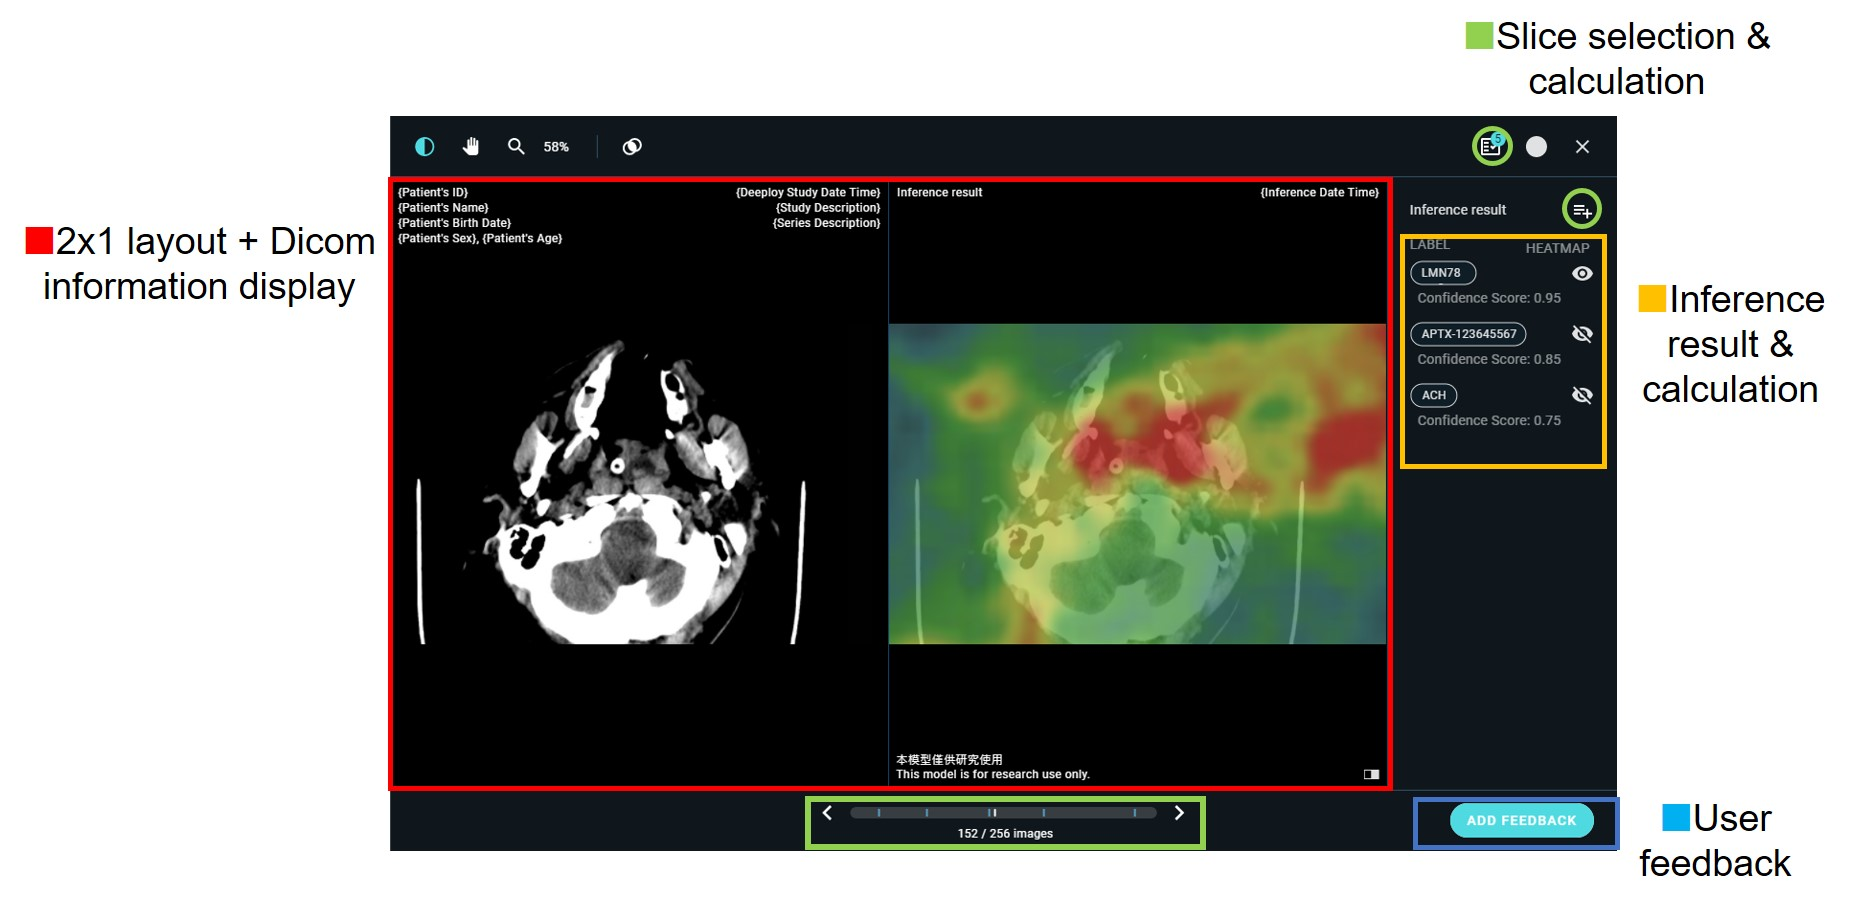
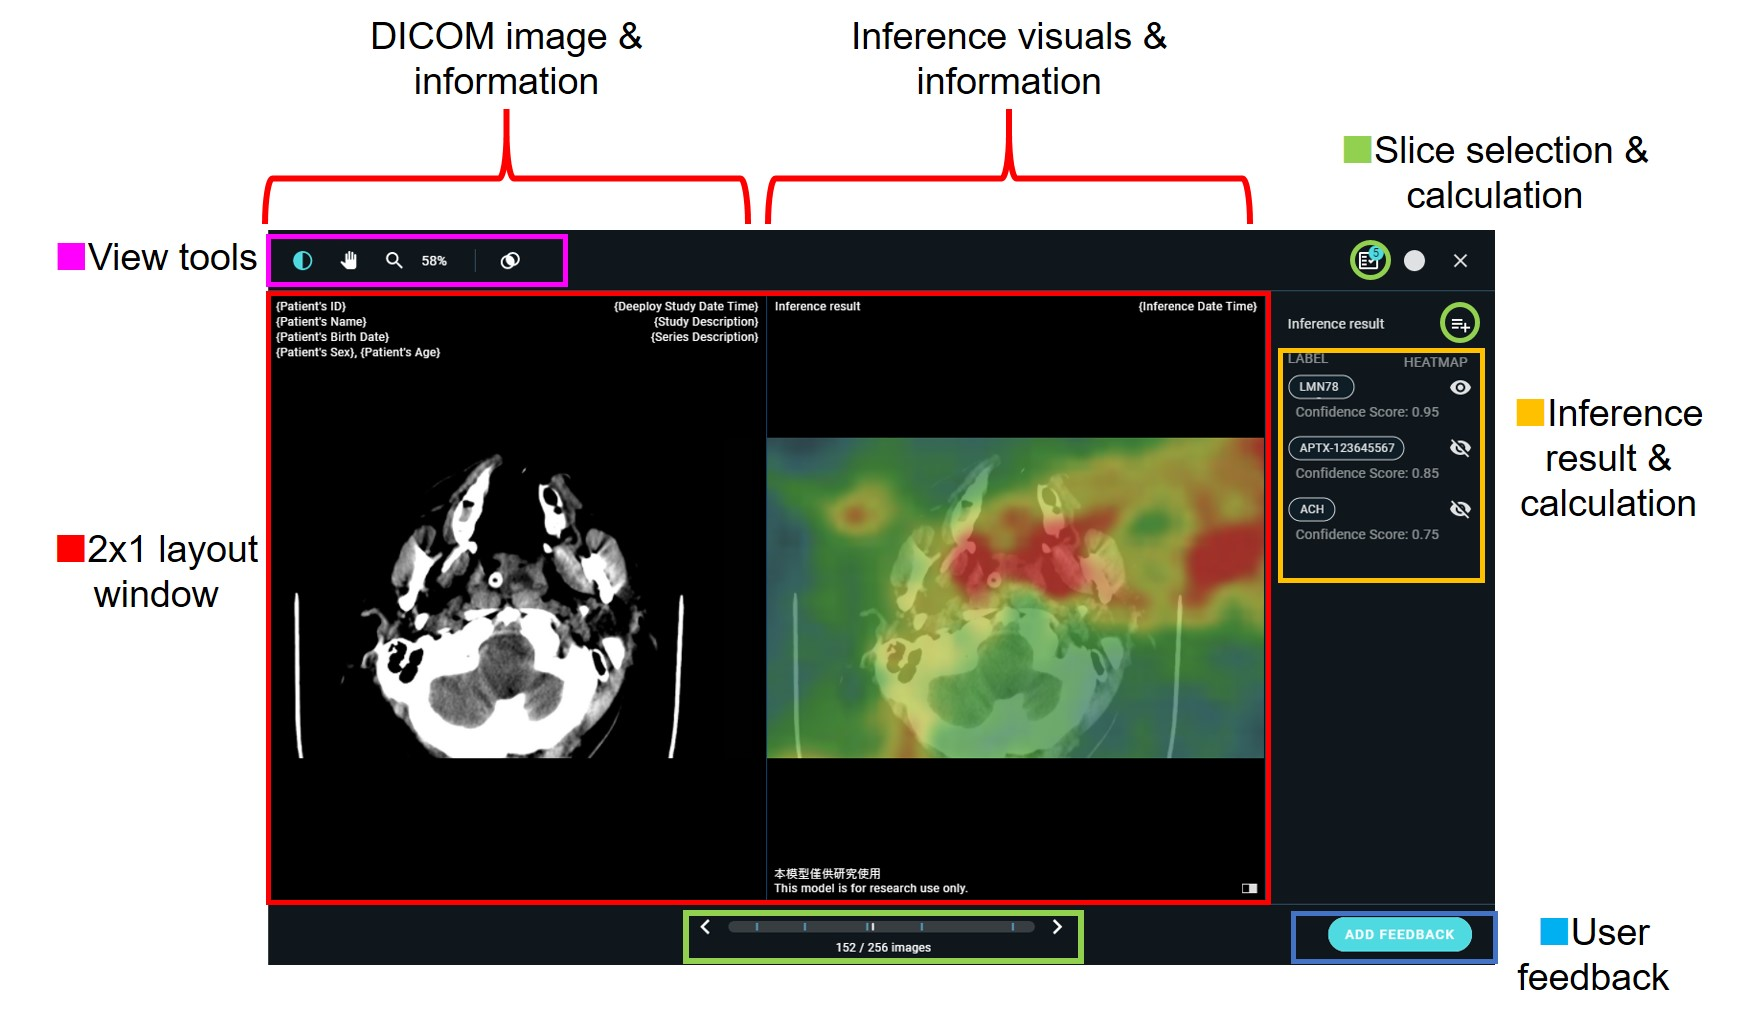
GITBOOK-21: No subject

diff --git a/5.1-ai-worklist-and-viewer/5.1-ai-worklist-and-viewer-1.md b/5.1-ai-worklist-and-viewer/5.1-ai-worklist-and-viewer-1.md
@@ -2,9 +2,13 @@
 
 ### AI viewer layout
 
-The standard AI viewer has a 2x1 layout, with the raw DICOM image and information on the left, inference results and information on the right. The side bar at the far right contains inference result & calculation (optional), image slider at the bottom will appear when the study contains multiple images.
+The standard AI viewer has a 2x1 layout, with the raw DICOM image and information on the left, inference results and information on the right.&#x20;
 
-![AI viewer: Image Classification](../.gitbook/assets/Deeploy-con-2-2-0.jpg)
+The side bar at the far right contains inference result & calculation (optional), image slider at the bottom will appear when the study contains multiple images.
+
+View tools include: contrast (WL/WW for CT images), pan, zoom & heatmap transparency (classification only)
+
+![AI viewer: standard layout & tools](../.gitbook/assets/Deeploy-con-2-2-0.jpg)
 
 
 
